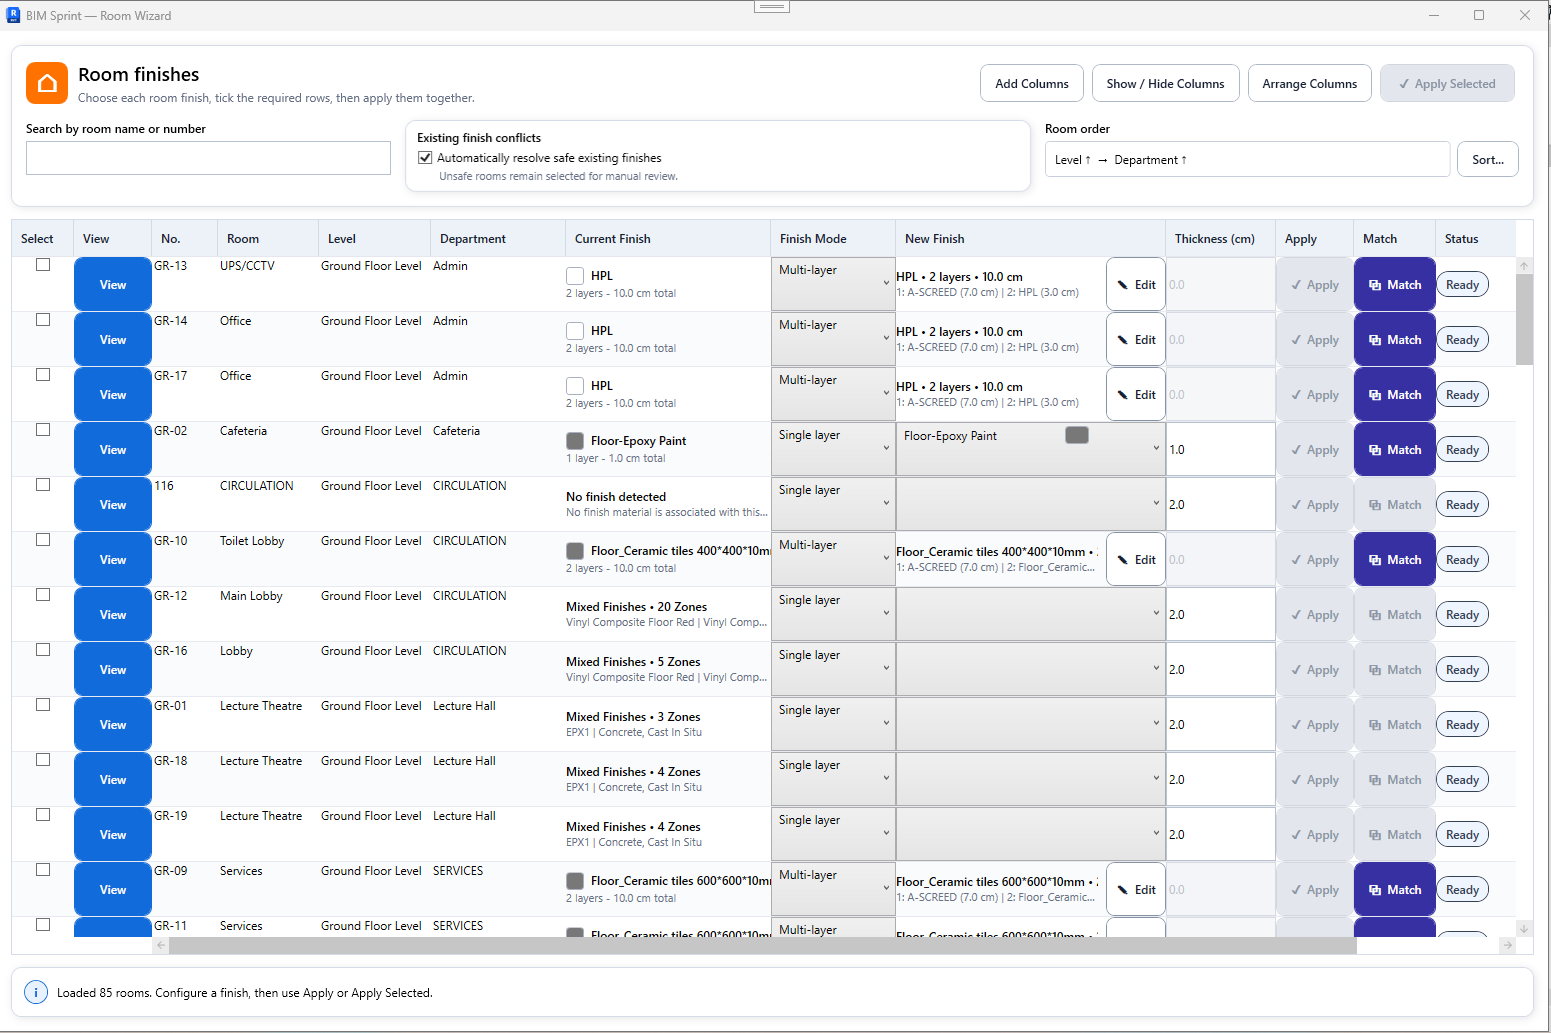
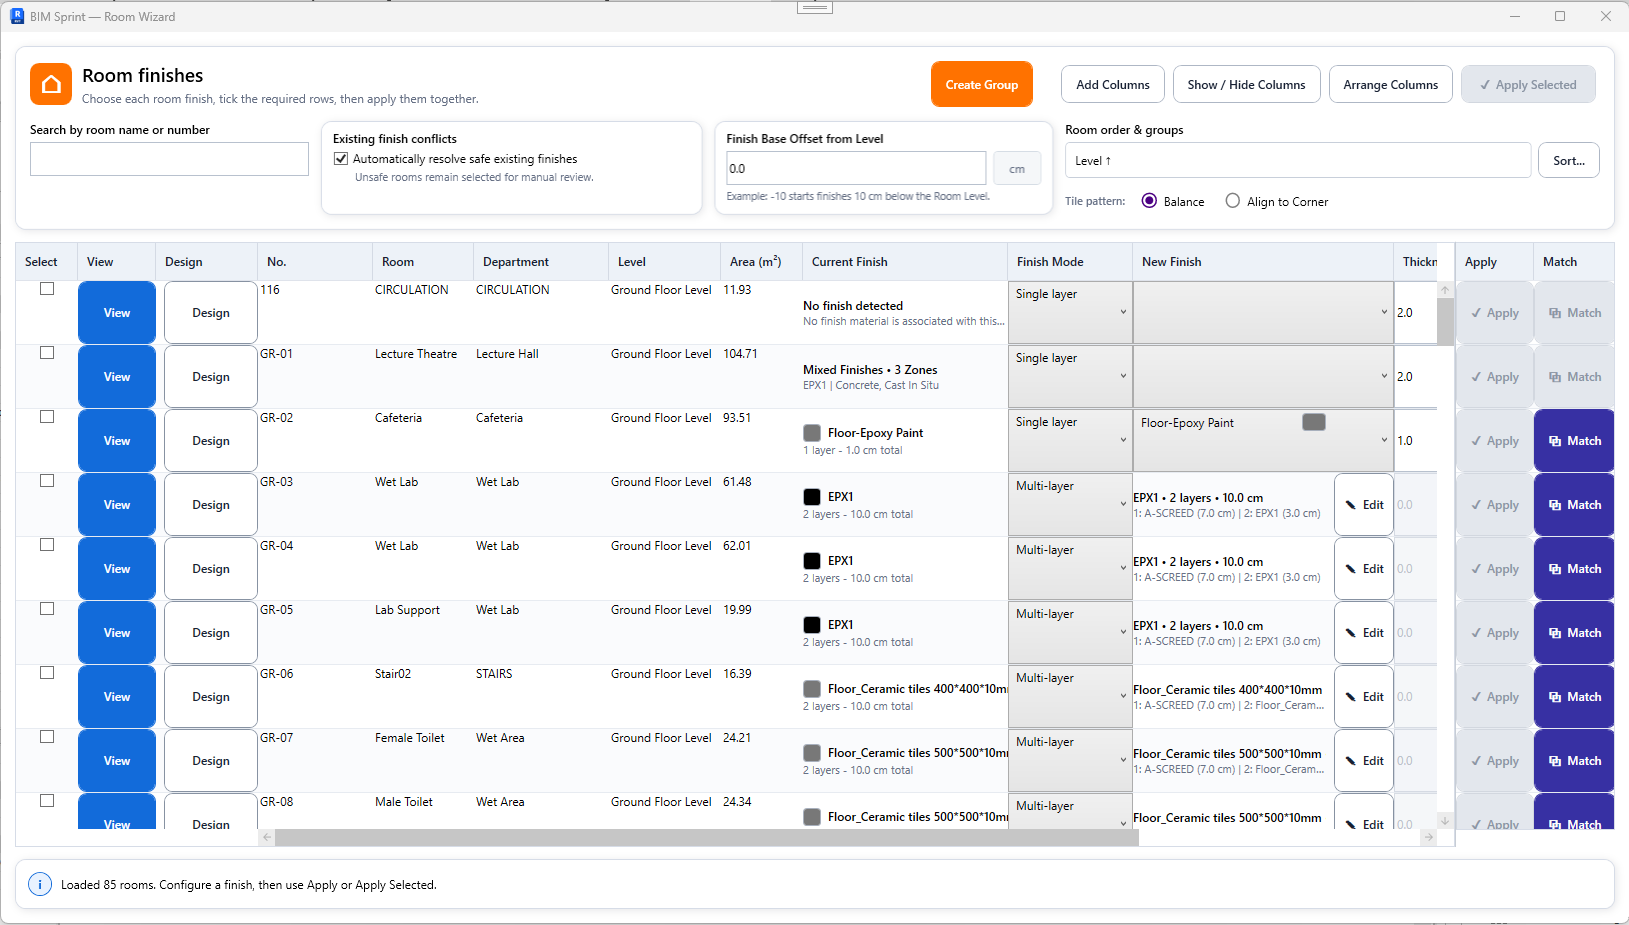
Update tool images and reorder packages

diff --git a/js/tools-data.js b/js/tools-data.js
@@ -32,7 +32,7 @@ HOW TO MANAGE THIS FILE (كيفية إدارة هذه البيانات)
 
 const TOOLS = {
   "01": {
-    pkg: "Package 01 · Tool 01",
+    pkg: "Package 02 · Tool 01",
     title: "Isolated Footing Rebar Tool",
     desc: "Automates all reinforcement detailing for isolated footings in a single operation — placing mesh layers, side bars, and cover constraints automatically.",
     image: "assets/images/tool-01-isolated-footing.png",
@@ -54,7 +54,7 @@ const TOOLS = {
     summary: "Project with <strong>50 isolated footings</strong> — Manual: <strong style='color:var(--error)'>~5 working days</strong> → With Tool: <strong>under 2 minutes</strong>"
   },
   "02": {
-    pkg: "Package 01 · Tool 02",
+    pkg: "Package 02 · Tool 02",
     title: "Column Reinforcement Tool",
     desc: "A complete column detailing engine — handles longitudinal bars, starter bars (dowels), and stirrups with variable spacing zones, fully compliant with the Egyptian Code of Practice.",
     image: "assets/images/tool-02-column-rebar.png",
@@ -77,7 +77,7 @@ const TOOLS = {
     summary: "10-floor building with <strong>200 columns</strong> — Manual: <strong style='color:var(--error)'>~40 working hours</strong> → With Tool: <strong>under 10 minutes</strong>"
   },
   "03": {
-    pkg: "Package 01 · Tool 03",
+    pkg: "Package 02 · Tool 03",
     title: "Additional Rebar from AutoCAD Drawing Tool",
     desc: "Reads an imported CAD drawing directly inside Revit and converts all annotated additional reinforcement into fully parametric Revit rebar — zero manual placement required.",
     image: "assets/images/tool-03-cad-rebar.png",
@@ -99,7 +99,7 @@ const TOOLS = {
     summary: "Full hospital raft with <strong>200+ rebar zones</strong> — Manual: <strong style='color:var(--error)'>full working day</strong> → With Tool: <strong>under 5 minutes</strong>"
   },
   "04": {
-    pkg: "Package 01 · Tool 04",
+    pkg: "Package 02 · Tool 05",
     title: "Rebar Visibility Control Tool",
     desc: "A one-click visibility manager for all rebar elements across any Revit view — eliminating the multi-step Visibility/Graphic Overrides workflow entirely.",
     image: "assets/images/tool-04-rebar-visibility.png",
@@ -119,7 +119,7 @@ const TOOLS = {
     summary: "Saves <strong>30–60 minutes daily</strong> during coordination and review cycles on complex multi-discipline projects."
   },
   "05": {
-    pkg: "Package 02 · Tool 01",
+    pkg: "Package 03 · Tool 01",
     title: "Foundation Modeling Tool (Isolated & Raft)",
     desc: "Reads CAD layer geometry and automatically generates Revit foundation elements — isolated footings and raft slabs — with correct dimensions, types, naming conventions, and level offsets.",
     image: "assets/images/tool-05-foundation.png",
@@ -142,7 +142,7 @@ const TOOLS = {
     summary: "Hospital foundation with <strong>120+ footings & raft zones</strong> — Manual: <strong style='color:var(--error)'>full working day</strong> → With Tool: <strong>under 10 minutes</strong>"
   },
   "06": {
-    pkg: "Package 02 · Tool 02",
+    pkg: "Package 03 · Tool 02",
     title: "Columns & RC Walls Modeling Tool",
     desc: "Processes a CAD plan and generates all structural columns (rectangular and circular) and RC walls as parametric Revit elements — fully typed, named, and placed at correct levels.",
     image: "assets/images/tool-06-columns.png",
@@ -165,7 +165,7 @@ const TOOLS = {
     summary: "10-floor building with <strong>1,000 column placements</strong> — Manual: <strong style='color:var(--error)'>weeks of modeling</strong> → With Tool: <strong>under 1 hour</strong>"
   },
   "07": {
-    pkg: "Package 02 · Tool 03",
+    pkg: "Package 03 · Tool 03",
     title: "Slabs & Drop Panels Modeling Tool",
     desc: "Reads slab boundaries from an imported CAD layer and generates Revit slab elements with correct types, elevations, and Drop Panels — including level adjustment for all slabs.",
     image: "assets/images/tool-07-slabs.png",
@@ -187,7 +187,7 @@ const TOOLS = {
     summary: "Multi-floor structure with <strong>300+ slab zones</strong> — Manual: <strong style='color:var(--error)'>weeks of modeling</strong> → With Tool: <strong>hours</strong>"
   },
   "08": {
-    pkg: "Package 02 · Tool 04",
+    pkg: "Package 03 · Tool 04",
     title: "Beams (Regular & Irregular) Modeling Tool",
     desc: "Reads beam geometry from an imported CAD plan and places all structural beams — including irregular cross-sections, L-shaped, T-shaped, and circular beams — across any number of floors simultaneously.",
     image: "assets/images/tool-08-beams.png",
@@ -207,7 +207,7 @@ const TOOLS = {
     summary: "10-floor building with <strong>2,000 beam placements</strong> — Manual: <strong style='color:var(--error)'>entire project week</strong> → With Tool: <strong>under 30 minutes</strong>"
   },
   "09": {
-    pkg: "Package 04 · Tool 01",
+    pkg: "Package 01 · Tool 03",
     title: "Model Navigator Tool",
     desc: "A centralized model control panel — browse all categories and types, select any combination of elements, and perform bulk actions (isolate, hide, delete, override color) from a single interface.",
     image: "assets/images/tool-09-navigator.png",
@@ -229,7 +229,7 @@ const TOOLS = {
     summary: "Full model color-coding for <strong>coordination review</strong> — Manual: <strong style='color:var(--error)'>1–2 hours</strong> → With Tool: <strong>under 5 minutes</strong>"
   },
   "10": {
-    pkg: "Package 03 · Tool 01",
+    pkg: "Package 01 · Tool 01",
     title: "Room Wizard Tool",
     desc: "An architectural room-finishes workflow that detects existing floor finishes, builds single- or multi-layer finish systems, previews each room in 3D, and applies verified finishes individually or in batches.",
     image: "assets/images/tool-10-room-wizard-v2.png",
@@ -254,7 +254,7 @@ const TOOLS = {
     summary: "Room Wizard brings <strong>room data, finish design, 3D review, matching, conflict handling, and batch creation</strong> into one controlled architectural workflow."
   },
   "11": {
-    pkg: "Package 04 · Tool 02",
+    pkg: "Package 04 · Tool 01",
     title: "Instance Parameter Transfer Tool",
     desc: "A data management tool for Revit instance parameters — copy, move, or delete parameter values across element instances, or assign new values to any parameter type directly from the interface.",
     image: "assets/images/tool-11-instance-params.png",
@@ -275,7 +275,7 @@ const TOOLS = {
     summary: "Critical for <strong>BIM data management and QA/QC</strong> — previously impractical tasks completed in seconds."
   },
   "12": {
-    pkg: "Package 04 · Tool 03",
+    pkg: "Package 04 · Tool 02",
     title: "Type Parameter Transfer Tool",
     desc: "The companion to the Instance Parameter Tool — same powerful interface but operating on Revit family type parameters rather than individual instances.",
     image: "assets/images/tool-12-type-params.png",
@@ -296,7 +296,7 @@ const TOOLS = {
     summary: "Together, both parameter tools transform <strong>BIM data management from a day-long task into minutes</strong>."
   },
   "13": {
-    pkg: "Package 01 · Tool 05",
+    pkg: "Package 02 · Tool 04",
     title: "Legs Generator Tool",
     desc: "An intelligent Revit automation engine that instantly creates structural hook legs for rebar layers at concrete boundaries, openings, and drop panels across slabs, rafts, and beams.",
     image: "assets/images/tool-13-leg-generator.png",
@@ -318,7 +318,7 @@ const TOOLS = {
     summary: "Large foundation raft detailing — Manual: <strong style='color:var(--error)'>~26 hours</strong> → With Tool: <strong>under 10 seconds</strong> (99.9% time saved)"
   },
   "14": {
-    pkg: "Package 04 · Tool 04",
+    pkg: "Package 04 · Tool 03",
     title: "Selection by Filter Tool",
     desc: "An intelligent selection interface — pick a single element, choose any instance parameter, select a value, and instantly select all matching elements in the active view.",
     image: "assets/images/tool-14-selection-parameter.png",
@@ -340,7 +340,7 @@ const TOOLS = {
     summary: "Smart, instant selection of coordination elements in large views. Manual: <strong style='color:var(--error)'>20–40 minutes</strong> (requires scheduling, exporting, or custom scripting, often failing with custom parameters) → With Tool: <strong>under 15 seconds</strong>."
   },
   "15": {
-    pkg: "Package 04 · Tool 05",
+    pkg: "Package 04 · Tool 04",
     title: "Warning Clash Visualizer Tool",
     desc: "A centralized warning management dashboard — display all project warnings and clashes in a single list, and instantly isolate, color-code, and zoom into conflicting elements in a dedicated 3D view with an automatically sized section box.",
     image: "assets/images/tool-15-clash-visualizer.png",
@@ -366,7 +366,7 @@ const TOOLS = {
     summary: "Comprehensive warning and clash inspection. Manual: <strong style='color:var(--error)'>2–4 hours</strong> (locating warnings, copying IDs, isolating, color-coding, and zooming for dozens of items) → With Tool: <strong>under 5 minutes</strong> to inspect all warnings one-by-one."
   },
   "16": {
-    pkg: "Package 04 · Tool 06",
+    pkg: "Package 04 · Tool 05",
     title: "Door Data Sync Tool",
     desc: "A bi-directional data bridge — export all door data from Revit to a SQL Server database, edit parameters externally (via Excel, SQL, or web tools), and sync the changes back to Revit parameters in seconds.",
     image: "assets/images/tool-16-sql-doors.png",
@@ -389,7 +389,7 @@ const TOOLS = {
     summary: "Update finish data for all doors in the project from an external database. Manual: <strong style='color:var(--error)'>1–2 hours</strong> (exporting schedules, editing Excel, locating elements, and typing updates) → With Tool: <strong>under 30 seconds</strong>."
   },
   "17": {
-    pkg: "Package 03 · Tool 02",
+    pkg: "Package 01 · Tool 02",
     title: "Ceiling Wizard Tool",
     desc: "An automated suspended-ceiling design and modeling workflow that converts room geometry into reviewed gypsum and tile ceiling layouts, validates heights against structural soffits, and generates selected rooms in controlled batches.",
     image: "assets/images/tool-17-ceiling-wizard.png",

diff --git a/tools.html b/tools.html
@@ -44,6 +44,42 @@
 <div class="acc-header">
 <div class="acc-num">01</div>
 <div class="acc-info">
+<h3>Architectural Automation Suite</h3>
+<p>3 tools for architectural room finishes, suspended-ceiling design, and centralized model navigation and control.</p>
+<div class="acc-badges">
+<span class="acc-badge">C#</span>
+<span class="acc-badge">.NET 8</span>
+<span class="acc-badge">Revit API</span>
+<span class="acc-badge">WPF / MVVM</span>
+</div>
+</div>
+<div class="acc-arrow">▼</div>
+</div>
+<div class="acc-body">
+<div class="acc-tools">
+<a class="acc-tool" href="tool.html?id=10">
+<h4>Room Wizard Tool</h4>
+<p>Design, review, match, and batch-create single- or multi-layer room floor finishes with 3D room viewing and safe existing-finish handling.</p>
+<span class="acc-tool-link">View Details →</span>
+</a>
+<a class="acc-tool" href="tool.html?id=17">
+<h4>Ceiling Wizard Tool</h4>
+<p>Automated suspended-ceiling design with gypsum, tiles, whole-tile perimeter layouts, divided bays, height checks, grouping, review, and generation.</p>
+<span class="acc-tool-link">View Details →</span>
+</a>
+<a class="acc-tool" href="tool.html?id=09">
+<h4>Model Navigator Tool</h4>
+<p>Centralized model control — browse categories, select elements, and perform bulk actions from one panel.</p>
+<span class="acc-tool-link">View Details →</span>
+</a>
+</div>
+</div>
+</div>
+<!-- PACKAGE 02 -->
+<div id="pkg02">
+<div class="acc-header">
+<div class="acc-num">02</div>
+<div class="acc-info">
 <h3>Structural Rebar &amp; Reinforcement Automation Suite</h3>
 <p>5 tools covering all RC reinforcement detailing in Revit — footings, columns, slab rebar, legs generation, and visibility control.</p>
 <div class="acc-badges">
@@ -85,10 +121,10 @@
 </div>
 </div>
 </div>
-<!-- PACKAGE 02 -->
-<div id="pkg02">
+<!-- PACKAGE 03 -->
+<div id="pkg03">
 <div class="acc-header">
-<div class="acc-num">02</div>
+<div class="acc-num">03</div>
 <div class="acc-info">
 <h3>CAD-to-Revit Structural Modeling Suite</h3>
 <p>4 tools that convert imported AutoCAD drawings into fully parametric Revit structural elements.</p>
@@ -126,44 +162,13 @@
 </div>
 </div>
 </div>
-<!-- PACKAGE 03 -->
-<div id="pkg03">
-<div class="acc-header">
-<div class="acc-num">03</div>
-<div class="acc-info">
-<h3>Architectural Automation Suite</h3>
-<p>2 tools focused on architectural room finishes and suspended-ceiling design — from finish coordination to calculated ceiling layouts and Revit modeling.</p>
-<div class="acc-badges">
-<span class="acc-badge">C#</span>
-<span class="acc-badge">.NET 8</span>
-<span class="acc-badge">Revit API</span>
-<span class="acc-badge">WPF / MVVM</span>
-</div>
-</div>
-<div class="acc-arrow">▼</div>
-</div>
-<div class="acc-body">
-<div class="acc-tools">
-<a class="acc-tool" href="tool.html?id=10">
-<h4>Room Wizard Tool</h4>
-<p>Design, review, match, and batch-create single- or multi-layer room floor finishes with 3D room viewing and safe existing-finish handling.</p>
-<span class="acc-tool-link">View Details →</span>
-</a>
-<a class="acc-tool" href="tool.html?id=17">
-<h4>Ceiling Wizard Tool</h4>
-<p>Automated suspended-ceiling design with gypsum, tiles, whole-tile perimeter layouts, divided bays, height checks, grouping, review, and generation.</p>
-<span class="acc-tool-link">View Details →</span>
-</a>
-</div>
-</div>
-</div>
 <!-- PACKAGE 04 -->
 <div id="pkg04">
 <div class="acc-header">
 <div class="acc-num">04</div>
 <div class="acc-info">
 <h3>General &amp; Multi-Discipline BIM Utilities</h3>
-<p>6 tools for model navigation, parameter transfer, smart selection filtering, warning visualization, and external SQL data synchronization.</p>
+<p>5 tools for parameter transfer, smart selection filtering, warning visualization, and external SQL data synchronization.</p>
 <div class="acc-badges">
 <span class="acc-badge">C#</span>
 <span class="acc-badge">.NET 8</span>
@@ -175,11 +180,6 @@
 </div>
 <div class="acc-body">
 <div class="acc-tools">
-<a class="acc-tool" href="tool.html?id=09">
-<h4>Model Navigator Tool</h4>
-<p>Centralized model control — browse categories, select elements, and perform bulk actions from one panel.</p>
-<span class="acc-tool-link">View Details →</span>
-</a>
 <a class="acc-tool" href="tool.html?id=11">
 <h4>Instance Parameter Transfer Tool</h4>
 <p>Copy, move, clear, or assign instance parameter values across elements with compatible storage-type filtering.</p>

diff --git a/index.html b/index.html
@@ -217,27 +217,27 @@
 <div class="tools-preview">
 <a class="tool-preview-card" href="tools.html#pkg01">
 <div class="tpc-num">01</div>
+<div class="tpc-title">Architectural Automation Suite</div>
+<div class="tpc-desc">Room Wizard, Ceiling Wizard, and Model Navigator for architectural modeling, coordination, and model control.</div>
+<span class="tpc-badge">3 Tools</span>
+</a>
+<a class="tool-preview-card" href="tools.html#pkg02">
+<div class="tpc-num">02</div>
 <div class="tpc-title">Structural Rebar &amp; Reinforcement Suite</div>
 <div class="tpc-desc">5 tools covering all RC reinforcement detailing — footings, columns, slab rebar, legs generation, and visibility control.</div>
 <span class="tpc-badge">5 Tools</span>
 </a>
-<a class="tool-preview-card" href="tools.html#pkg02">
-<div class="tpc-num">02</div>
+<a class="tool-preview-card" href="tools.html#pkg03">
+<div class="tpc-num">03</div>
 <div class="tpc-title">CAD-to-Revit Structural Modeling Suite</div>
 <div class="tpc-desc">4 tools converting imported AutoCAD drawings into parametric Revit foundations, columns, slabs, and beams.</div>
 <span class="tpc-badge">4 Tools</span>
 </a>
-<a class="tool-preview-card" href="tools.html#pkg03">
-<div class="tpc-num">03</div>
-<div class="tpc-title">Architectural Automation Suite</div>
-<div class="tpc-desc">Room Wizard and Ceiling Wizard for room-finish coordination and automated suspended-ceiling design and modeling.</div>
-<span class="tpc-badge">2 Tools</span>
-</a>
 <a class="tool-preview-card" href="tools.html#pkg04">
 <div class="tpc-num">04</div>
 <div class="tpc-title">General &amp; Multi-Discipline BIM Utilities</div>
-<div class="tpc-desc">6 productivity tools for navigation, parameter management, filtered selection, warning visualization, and SQL synchronization.</div>
-<span class="tpc-badge">6 Tools</span>
+<div class="tpc-desc">5 productivity tools for parameter management, filtered selection, warning visualization, and SQL synchronization.</div>
+<span class="tpc-badge">5 Tools</span>
 </a>
 </div>
 <div style="text-align:center;margin-top:36px">

diff --git a/js/services-data.js b/js/services-data.js
@@ -29,6 +29,11 @@ const SERVICES = {
 
         packages: [
             {
+                name: "🏠 Architectural Automation Suite",
+                count: "3 Professional Tools",
+                desc: "Room Wizard, Ceiling Wizard, and Model Navigator for architectural modeling, coordination, and model control."
+            },
+            {
                 name: "🔩 Rebar Automation Suite",
                 count: "5 Professional Tools",
                 desc: "Structural reinforcement automation for footings, columns, slab rebar, legs generation, and visibility control."
@@ -39,14 +44,9 @@ const SERVICES = {
                 desc: "CAD-driven structural modeling for foundations, columns and walls, slabs, drop panels, and beams."
             },
             {
-                name: "🏠 Architectural Automation Suite",
-                count: "2 Professional Tools",
-                desc: "Room Wizard and Ceiling Wizard for room finishes and automated suspended-ceiling design and modeling."
-            },
-            {
                 name: "⚡ General Productivity Suite",
-                count: "6 Professional Tools",
-                desc: "Model navigation, parameter transfer, smart selection, warning visualization, and SQL synchronization."
+                count: "5 Professional Tools",
+                desc: "Parameter transfer, smart selection, warning visualization, and SQL synchronization."
             }
         ],
 
